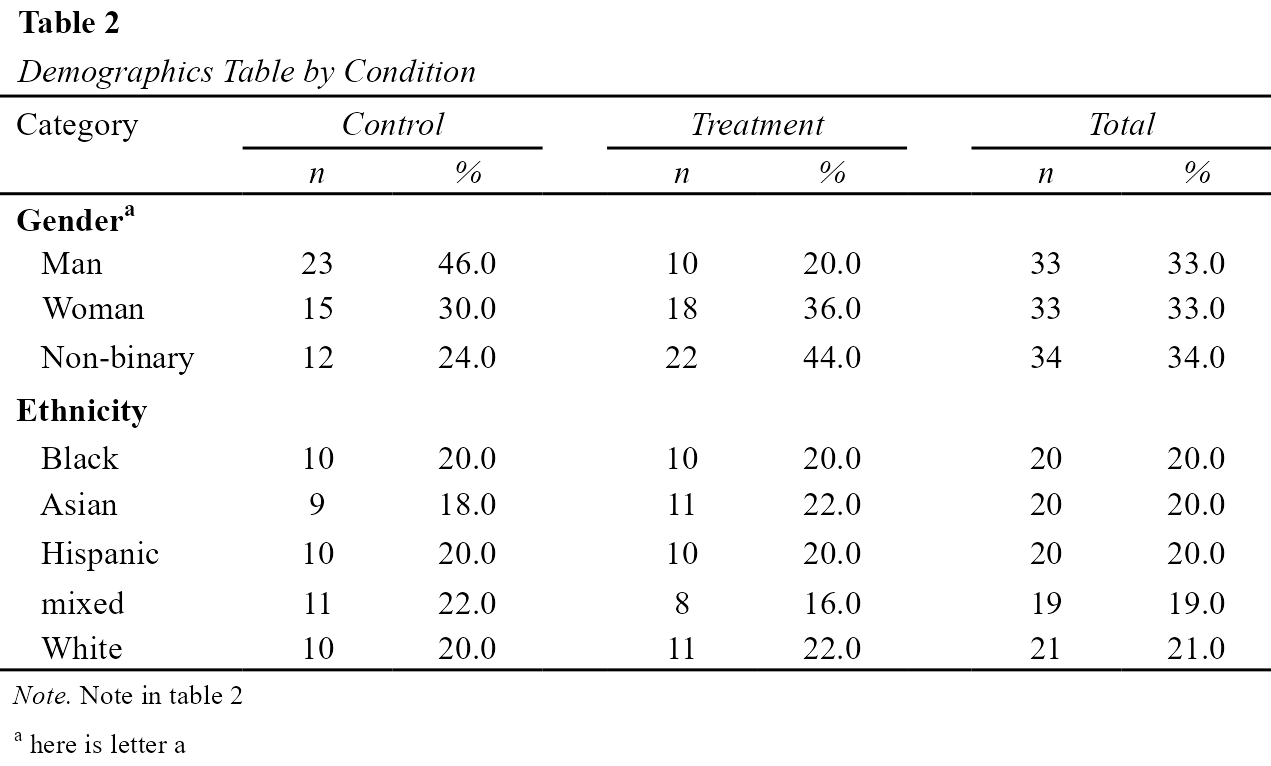
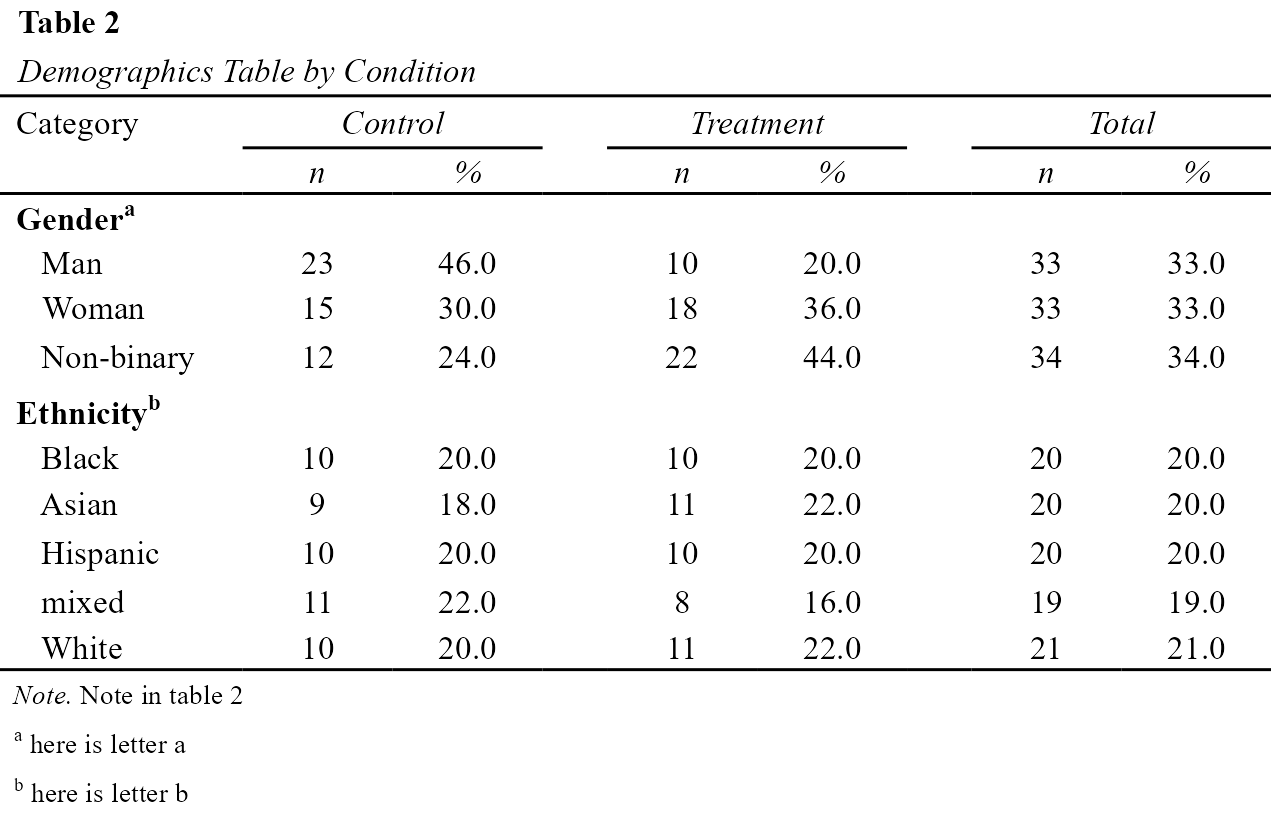
typos

diff --git a/README.md b/README.md
@@ -43,7 +43,7 @@ cars_table <- apa_descriptives(
   group_labels = c("0" = "Automatic", "1" = "Manual"),
   title = list(number = "1", text = "Descriptive Statistics by Transmission Type"),
   note = "an APA formatted note",
-  footnotes = list("mpg" = "a footnote regarding mgp appears hear"))
+  footnotes = list("mpg" = "a footnote regarding mpg appears hear"))
 
 cars_table
 ```
@@ -69,7 +69,7 @@ demographics_table <- apa_demographics(
   total = TRUE,
   title = list(number = "2", text = "Demographics Table by Condition"),
   note = "Note in table 2",
-  footnotes = list("Gender" = "here is letter a", "White" = "here is letter b")
+  footnotes = list("Gender" = "here is letter a", "Ethnicity" = "here is letter b")
 )
 
 demographics_table
